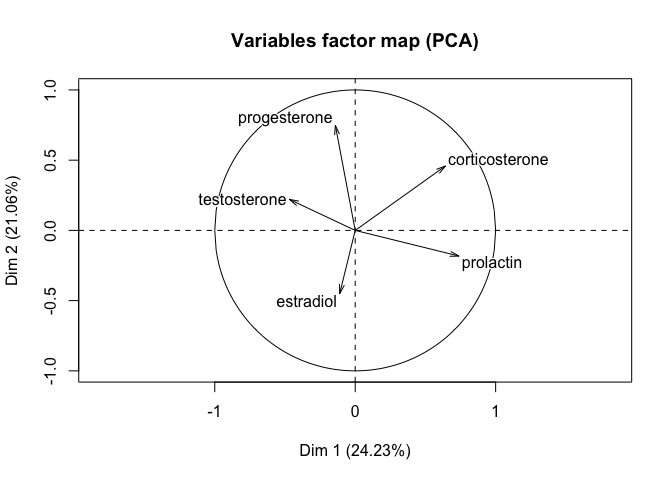
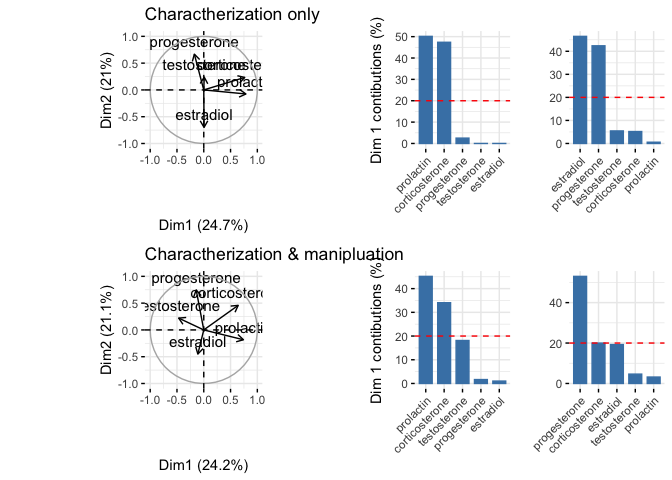
now with a summary

diff --git a/analysis/07_hormones.md b/analysis/07_hormones.md
@@ -1,13 +1,13 @@
     library(tidyverse)
 
-    ## ── Attaching packages ────────────────────────────────────── tidyverse 1.3.0 ──
+    ## ── Attaching packages ───── tidyverse 1.3.0 ──
 
     ## ✔ ggplot2 3.2.1     ✔ purrr   0.3.3
     ## ✔ tibble  2.1.3     ✔ dplyr   0.8.3
     ## ✔ tidyr   1.0.0     ✔ stringr 1.4.0
     ## ✔ readr   1.3.1     ✔ forcats 0.4.0
 
-    ## ── Conflicts ───────────────────────────────────────── tidyverse_conflicts() ──
+    ## ── Conflicts ──────── tidyverse_conflicts() ──
     ## ✖ dplyr::filter() masks stats::filter()
     ## ✖ dplyr::lag()    masks stats::lag()
 
@@ -1139,34 +1139,87 @@ pca of hormones
 
 ![](../figures/hormones/PCA-1.png)![](../figures/hormones/PCA-2.png)
 
-    a <- fviz_pca_var(res.pca, col.var = "black", title = "Charactherization only") 
+    a1 <- fviz_pca_var(res.pca, col.var = "black", title = "Charactherization only") 
     # Contributions of variables to PC1
 
-    b <- fviz_contrib(res.pca, choice = "var", axes = 1, top = 10) + labs(y = "Dim 1 contibutions (%)",
+    b1 <- fviz_contrib(res.pca, choice = "var", axes = 1, top = 10) + labs(y = "Dim 1 contibutions (%)",
                                                                           title = element_blank())
     # Contributions of variables to PC2
-    c <- fviz_contrib(res.pca, choice = "var", axes = 2, top = 10) +
+    c1 <- fviz_contrib(res.pca, choice = "var", axes = 2, top = 10) +
       labs(y = "Dim 2 contibutions (%)") + theme(title = element_blank())
 
-    plot_grid(a,b,c, nrow = 1, rel_widths = c(1,0.425,0.425), align = "hv")
-
-![](../figures/hormones/PCA-3.png)
+    ones <- plot_grid(a1,b1,c1, nrow = 1, rel_widths = c(1,0.425,0.425), align = "hv")
 
     # char and manip
     df <- hormoneswide %>% select(prolactin:progesterone)
     res.pca <- PCA(df)
 
-![](../figures/hormones/PCA-4.png)![](../figures/hormones/PCA-5.png)
+![](../figures/hormones/PCA-3.png)![](../figures/hormones/PCA-4.png)
 
-    a <- fviz_pca_var(res.pca, col.var = "black", title = "Charactherization & manipluation") 
+    a2 <- fviz_pca_var(res.pca, col.var = "black", title = "Charactherization & manipluation") 
     # Contributions of variables to PC1
 
-    b <- fviz_contrib(res.pca, choice = "var", axes = 1, top = 10) + labs(y = "Dim 1 contibutions (%)",
+    b2 <- fviz_contrib(res.pca, choice = "var", axes = 1, top = 10) + labs(y = "Dim 1 contibutions (%)",
                                                                           title = element_blank())
     # Contributions of variables to PC2
-    c <- fviz_contrib(res.pca, choice = "var", axes = 2, top = 10) +
+    c2 <- fviz_contrib(res.pca, choice = "var", axes = 2, top = 10) +
       labs(y = "Dim 2 contibutions (%)") + theme(title = element_blank())
 
-    plot_grid(a,b,c, nrow = 1, rel_widths = c(1,0.425,0.425), align = "hv")
+    twos <- plot_grid(a2,b2,c2, nrow = 1, rel_widths = c(1,0.425,0.425), align = "hv")
 
-![](../figures/hormones/PCA-6.png)
+    plot_grid(ones,twos, nrow = 2)
+
+![](../figures/hormones/PCA-5.png)
+
+smooth funciton
+===============
+
+    head(hormones)
+
+    ## # A tibble: 6 x 9
+    ##   study  treatment sex   bird_id hormone plasma_conc icons music  iconpath 
+    ##   <fct>  <fct>     <fct> <chr>   <fct>         <dbl> <chr> <chr>  <chr>    
+    ## 1 chara… control   male  x.g     prolac…        3.83 cont… https… ../figur…
+    ## 2 chara… control   male  x.g.g   prolac…        3.28 cont… https… ../figur…
+    ## 3 chara… control   male  x.blk.… prolac…        4.15 cont… https… ../figur…
+    ## 4 chara… control   male  x.g.g.g prolac…       25.3  cont… https… ../figur…
+    ## 5 chara… control   fema… x.g.g.f prolac…       21.5  cont… https… ../figur…
+    ## 6 chara… control   male  x.blu.o prolac…       14.9  cont… https… ../figur…
+
+    ggplot(hormones, aes(x = as.numeric(treatment), y = plasma_conc, color = hormone)) +
+      geom_smooth() 
+
+![](../figures/hormones/summary-1.png)
+
+    box <- ggplot(hormones, aes(x = as.numeric(treatment), y = plasma_conc)) +
+      geom_boxplot(aes(fill = treatment)) +
+      #geom_smooth(aes(color = hormone)) +
+      facet_wrap(~hormone, scales = "free_y", nrow = 5) +
+      scale_x_continuous(breaks = c(1,2,3,4,5,6,7,8,9,10,11,12,13,14,15,16),
+                         labels = alllevels) +
+      theme_B3() +
+      theme(#strip.text = element_blank(),
+            axis.text.x = element_text(angle = 45, hjust = 1),
+            legend.position = "none",
+            panel.background = element_rect(fill = "transparent",colour = NA),
+            plot.background = element_rect(fill = "transparent",colour = NA)) +
+      labs(y = "plasma conc. (ng/mL)", x = "parental stage")
+
+    line <- ggplot(hormones, aes(x = as.numeric(treatment), y = plasma_conc)) +
+      #geom_boxplot(aes(fill = treatment)) +
+      geom_smooth(aes(color = hormone)) +
+      facet_wrap(~hormone, scales = "free_y", nrow = 5) +
+      scale_x_continuous(breaks = c(1,2,3,4,5,6,7,8,9,10,11,12,13,14,15,16),
+                         labels = alllevels) +
+      theme_B3() +
+      theme(#strip.text = element_blank(),
+            axis.text.x = element_text(angle = 45, hjust = 1),
+            legend.position = "none",
+            panel.background = element_rect(fill = "transparent",colour = NA),
+            plot.background = element_rect(fill = "transparent",colour = NA)) +
+      labs(y = "plasma conc. (ng/mL)", x = "parental stage") 
+      
+
+    plot_grid(box, line, nrow = 1)
+
+![](../figures/hormones/summary-2.png)
